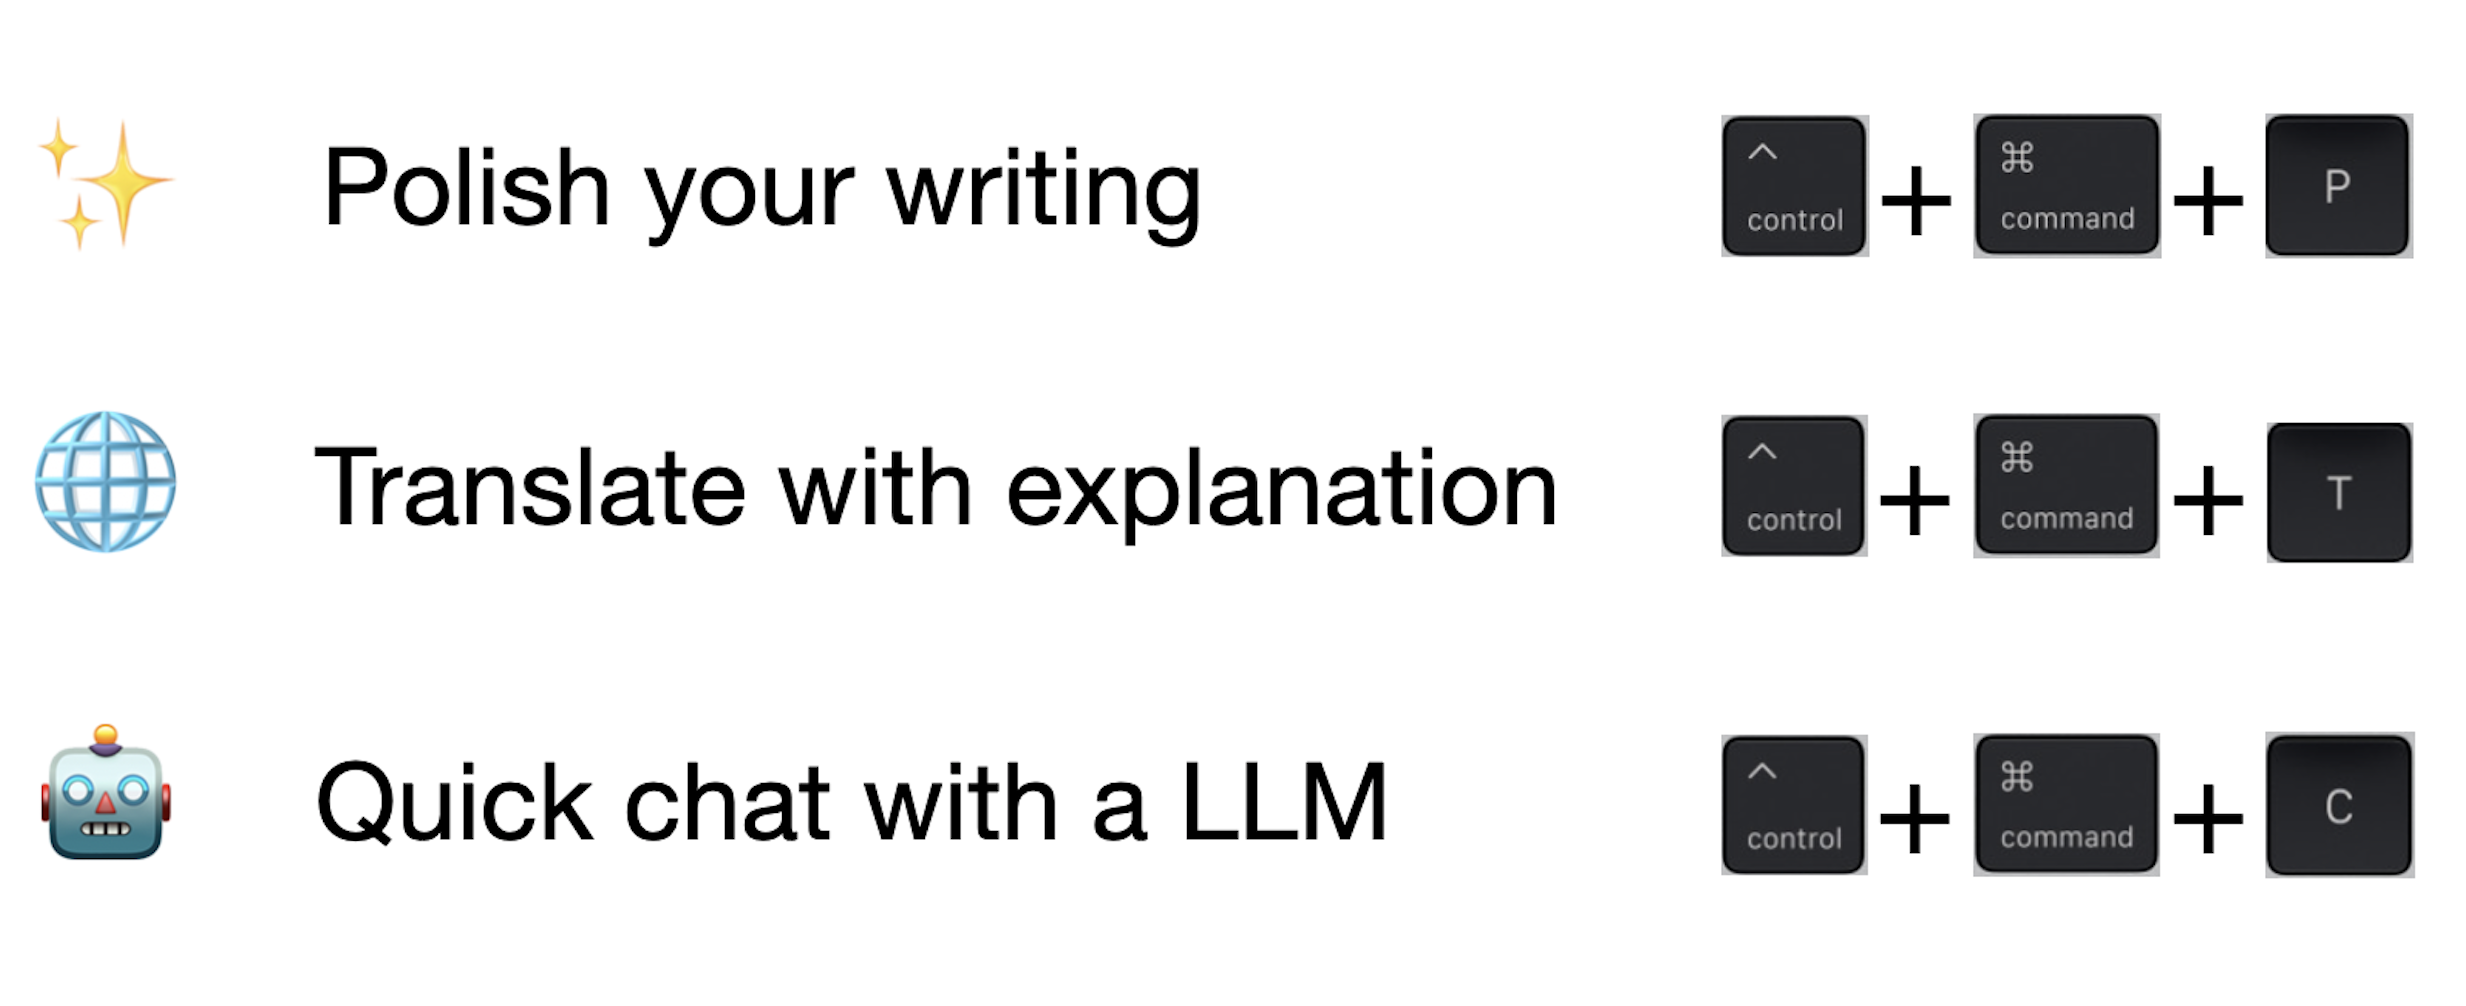
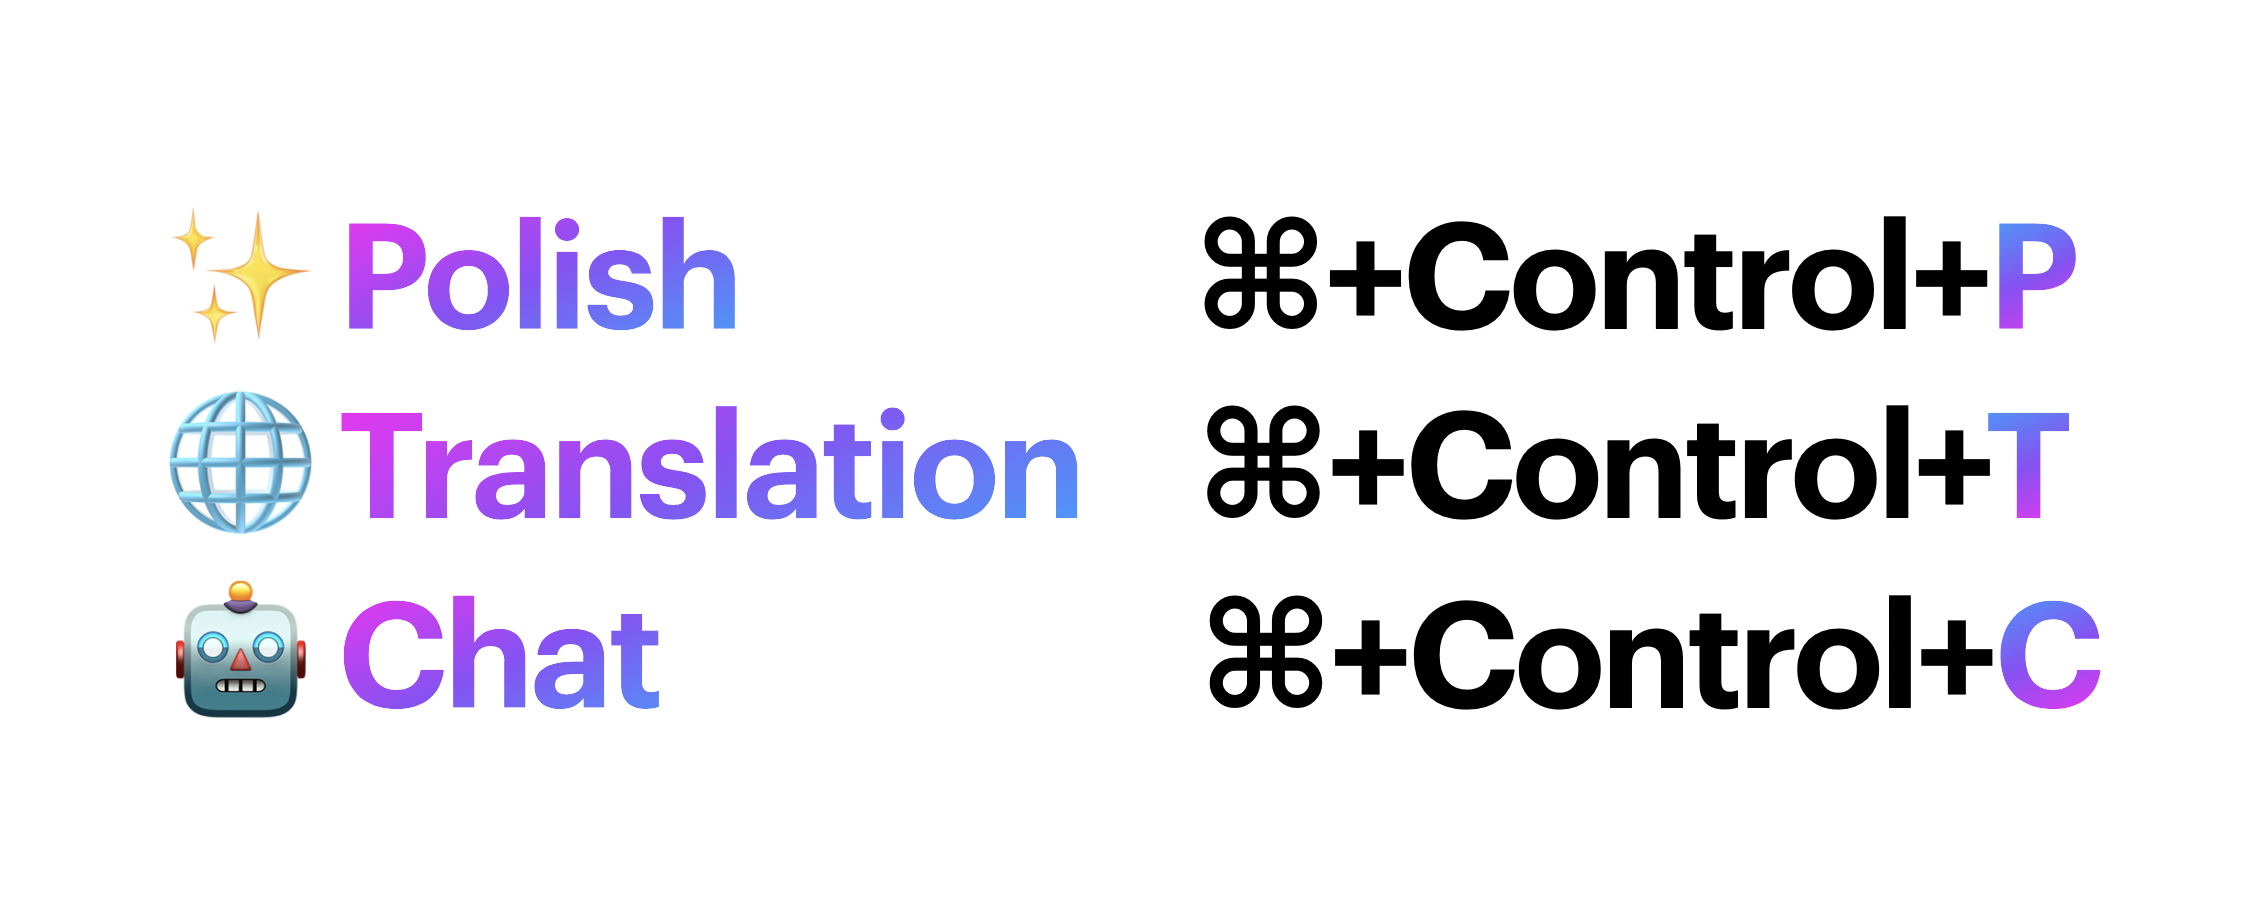
feat: refactor feature descriptions with more engaging and concise copy

diff --git a/index.html b/index.html
@@ -65,7 +65,7 @@
     <section class="hero">
         <div class="hero-content">
             <h1>Write with Confidence</h1>
-            <p class="subtitle">Your AI writing assistant for macOS, ready wherever you are, with just a shortcut.</p>
+            <p class="subtitle">Your AI Writing Assistant for macOS. Summon it anywhere with a simple keyboard shortcut, get instant writing help anytime.</p>
             <div class="cta-buttons">
                 <a href="https://apps.apple.com/app/your-app-id" 
                     class="app-store-btn" 
@@ -97,12 +97,7 @@
                 <div class="feature-content">
                     <div class="feature-icon">✨ ⌘+Control+P</div>
                     <h3>Text Polish & Enhancement</h3>
-                    <p>Polish your writing with a single shortcut! It automatically styles your text according to your writing environment.</p>
-                    <ul class="feature-list">
-                        <li>Smart grammar and style corrections</li>
-                        <li>Tone adjustment for professional writing</li>
-                        <li>Context-aware improvements</li>
-                    </ul>
+                    <p>Write with Confidence, Effortlessly! No more grammar worries—just express yourself. With a simple keyboard shortcut, instantly fix typos, grammar mistakes, and enhance your writing to sound natural in any context.</p>
                 </div>
                 <div class="feature-demo">
                     <div class="demo-container">
@@ -116,12 +111,7 @@
                 <div class="feature-content">
                     <div class="feature-icon">🌐 ⌘+Control+T</div>
                     <h3>Universal Translation</h3>
-                    <p>Instant translation of your foreign language text. Works seamlessly across all your applications.</p>
-                    <ul class="feature-list">
-                        <li>Automatic source language detection</li>
-                        <li>Maintains original formatting</li>
-                        <li>Clear explaination of words or slang</li>
-                    </ul>
+                    <p>No more fear of misunderstanding! Call your AI translator with a keyboard shortcut to get instant explanations in your language. Understand any vocabulary, slang, or phrase effortlessly.</p>
                 </div>
                 <div class="feature-demo">
                     <div class="demo-container">
@@ -135,12 +125,7 @@
                 <div class="feature-content">
                     <div class="feature-icon">🤖 ⌘+Control+C</div>
                     <h3>Quick Chat with LLM</h3>
-                    <p>Start a chat with your favorite AI model whenever you want.</p>
-                    <ul class="feature-list">
-                        <li>Start a chat with a shortcut, no matter where you are</li>
-                        <li>Chat and go, hassle free</li>
-                        <li>Get your question answered by a specialized AI role</li>
-                    </ul>
+                    <p>Get Insights from Your Role Model-Instantly! No hassle, no prompts-just call it up with a keyboard shortcut and start chatting right away.</p>
                 </div>
                 <div class="feature-demo">
                     <div class="demo-container">
